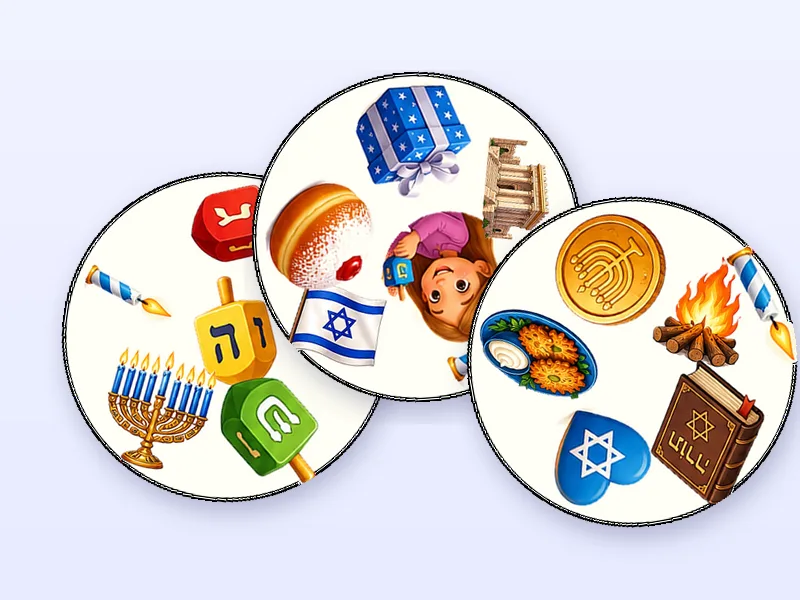
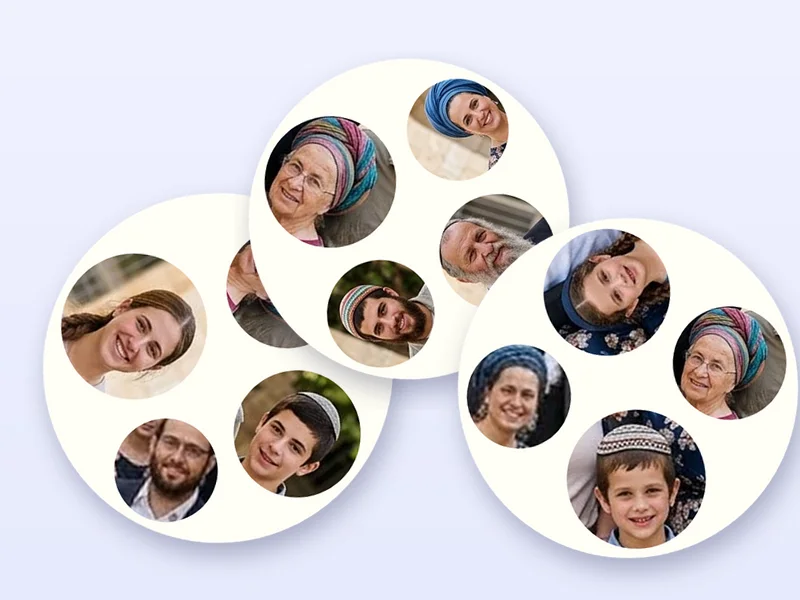
אתר: קלפי מאצ׳טו עם פרצופי משפחה בכל דפי המוצר (W-27)
Claude-Session: https://claude.ai/code/session_01694pSE2a7KruBRUYptHFg2

diff --git a/card-games.html b/card-games.html
@@ -185,7 +185,7 @@
           <a href="#games" class="btn btn-hero-phone">🃏 לבחירת משחק</a>
           <a href="https://wa.me/972505918734?text=%D7%A9%D7%9C%D7%95%D7%9D%20%D7%94%D7%95%D7%A9%D7%A2%D7%99%D7%94%2C%20%D7%94%D7%92%D7%A2%D7%AA%D7%99%20%D7%9E%D7%93%D7%A3%20%D7%9E%D7%97%D7%95%D7%9C%D7%9C%20%D7%9E%D7%A9%D7%97%D7%A7%D7%99%20%D7%94%D7%A7%D7%9C%D7%A4%D7%99%D7%9D%20%D7%95%D7%90%D7%A9%D7%9E%D7%97%20%D7%9C%D7%A9%D7%9E%D7%95%D7%A2%20%D7%A4%D7%A8%D7%98%D7%99%D7%9D%20%F0%9F%83%8F" class="btn btn-ghost-hero" target="_blank" rel="noopener noreferrer">💬 שאלות בוואטסאפ</a>
         </div>
-        <img src="images/games/og-card-games.jpg" alt="משחקי קלפים אישיים מהתמונות שלכם — מצא את הזהה, משחק זיכרון ורביעיות" width="1200" height="630" class="reveal" style="width:100%;max-width:760px;height:auto;border-radius:1rem;margin:1.6rem auto 0;display:block;box-shadow:0 18px 40px rgba(0,0,0,.25)">
+        <img src="images/games/og-card-games.jpg" alt="משחקי קלפים אישיים מהתמונות שלכם — קלפי מצא את הזהה עם פרצופי המשפחה, משחק זיכרון ורביעיות" width="1200" height="630" class="reveal" style="width:100%;max-width:760px;height:auto;border-radius:1rem;margin:1.6rem auto 0;display:block;box-shadow:0 18px 40px rgba(0,0,0,.25)">
       </div>
     </section>
 
@@ -198,7 +198,7 @@
         </header>
         <div class="offer-grid cols-3">
           <div class="offer-card reveal">
-            <img src="images/games/matchito.webp" alt="קלפים עגולים של משחק מצא את הזהה עם תמונות חנוכה — סביבונים, חנוכייה וסופגנייה" width="800" height="600" loading="lazy" style="width:100%;height:auto;border-radius:.8rem;margin-bottom:.6rem">
+            <img src="images/games/matchito.webp" alt="קלפים עגולים של משחק מצא את הזהה עם פרצופים של בני המשפחה — סבא, סבתא, הורים וילדים" width="800" height="600" loading="lazy" style="width:100%;height:auto;border-radius:.8rem;margin-bottom:.6rem">
             <h3 class="offer-card-title">מצא את הזהה (מאצ׳טו)</h3>
             <p>בין כל שני קלפים יש תמונה אחת משותפת — מי מוצא ראשון? 7 עד 91 קלפים מהתמונות שלכם, עם 4 דרכי משחק בחבילה אחת.</p>
             <p style="color:var(--muted);font-size:.82rem;margin-top:.3rem">נקרא גם: משחק "מי מוצא ראשון", קלפי התאמה, משחק סמל משותף, קלפים עגולים עם תמונות</p>

diff --git a/matchito-info.html b/matchito-info.html
@@ -9,6 +9,9 @@
   <meta property="og:description" content="הופכים תמונות ורגעים אישיים למשחק קלפים מקצועי תוך דקות — לכל אירוע, קבוצה או כיתה. חבילה אחת, 4 משחקים שונים.">
   <meta property="og:type" content="website">
   <meta property="og:url" content="https://www.hoshaya.co.il/matchito-info.html">
+  <meta property="og:image" content="https://www.hoshaya.co.il/images/games/og-matchito.jpg">
+  <meta property="og:image:width" content="1200">
+  <meta property="og:image:height" content="630">
   <link rel="canonical" href="https://www.hoshaya.co.il/matchito-info.html">
   <link rel="alternate" hreflang="he" href="https://www.hoshaya.co.il/matchito-info.html">
   <link rel="alternate" hreflang="en" href="https://www.hoshaya.co.il/one-match.html">
@@ -89,6 +92,7 @@
             שאלות בוואטסאפ
           </a>
         </div>
+        <img src="images/games/og-matchito.jpg" alt="קלפי מאצ׳טו עגולים עם תמונות של בני המשפחה — סבא, סבתא, הורים וילדים. בין כל שני קלפים יש פרצוף אחד משותף" width="1200" height="630" class="reveal" style="width:100%;max-width:760px;height:auto;border-radius:1rem;margin:1.6rem auto 0;display:block;box-shadow:0 18px 40px rgba(0,0,0,.25)">
       </div>
     </section>
 

diff --git a/one-match.html b/one-match.html
@@ -9,6 +9,9 @@
   <meta property="og:description" content="Turn personal photos and memories into a professional card game in minutes — for any event, group or classroom. One pack, 4 different games.">
   <meta property="og:type" content="website">
   <meta property="og:url" content="https://www.hoshaya.co.il/one-match.html">
+  <meta property="og:image" content="https://www.hoshaya.co.il/images/games/og-matchito.jpg">
+  <meta property="og:image:width" content="1200">
+  <meta property="og:image:height" content="630">
   <link rel="canonical" href="https://www.hoshaya.co.il/one-match.html">
   <link rel="alternate" hreflang="he" href="https://www.hoshaya.co.il/matchito-info.html">
   <link rel="alternate" hreflang="en" href="https://www.hoshaya.co.il/one-match.html">
@@ -89,6 +92,7 @@
             WhatsApp questions
           </a>
         </div>
+        <img src="images/games/og-matchito.jpg" alt="Round One Match cards with family photos — grandparents, parents and kids. Every two cards share exactly one face" width="1200" height="630" class="reveal" style="width:100%;max-width:760px;height:auto;border-radius:1rem;margin:1.6rem auto 0;display:block;box-shadow:0 18px 40px rgba(0,0,0,.25)">
       </div>
     </section>
 

diff --git a/index.html b/index.html
@@ -188,6 +188,7 @@
     <!-- ===== מחולל הדאבל ===== -->
     <section class="section" id="dobble-entry" aria-label="מחולל מאצ׳טו">
       <div class="container">
+        <a href="matchito-info.html"><img src="images/games/matchito.webp" alt="קלפי מאצ׳טו עגולים עם תמונות של בני המשפחה — בין כל שני קלפים יש פרצוף אחד משותף" width="800" height="600" loading="lazy" class="reveal" style="width:100%;max-width:520px;height:auto;border-radius:1rem;margin:0 auto 1rem;display:block"></a>
         <a href="dobble.html" class="subpage-link-card reveal">
           <div>
             <strong>🎯 מחולל מאצ׳טו שלנו</strong>

diff --git a/מרשם-אתר.md b/מרשם-אתר.md
@@ -27,6 +27,8 @@
 
 | W-26 | **תמונות לדף `card-games.html`** (בקשת הושעיה). 7 תמונות אמיתיות מהמחוללים עצמם (מאצ׳טו, זיכרון, רביעיות, דומינו, קלפים, פאזל, קובייה) עם סמלי חנוכה מחבילת ההדגמה `play/demo/hanukkah.matchito.zip`, ותמונה ראשית 1200×630 שמשמשת גם לשיתוף בוואטסאפ (og:image). alt עם מילות חיפוש, loading=lazy, webp 18–58KB. תיקייה `images/games/`. | card-games.html, images/games/ | מוזג |
 
+| W-27 | **קלפי מאצ׳טו עם פרצופים** (בקשת הושעיה — שיהיה ברור שזה המוצר). 13 פרצופים נחתכו מתמונת משפחה שהושעיה הפיק בבינה מלאכותית (אין אנשים אמיתיים), הקלפים הופקו במחולל עצמו (סדר 13). `images/games/og-matchito.jpg` (1200×630) בראש `matchito-info.html` ו-`one-match.html` + og:image שלהם; `matchito.webp` הוחלף (דף משחקי הקלפים + חדש בדף הבית מעל כרטיס המחולל); `og-card-games.jpg` עודכן. | matchito-info.html, one-match.html, card-games.html, index.html, images/games/ | מוזג |
+
 ## 🟡 באגים מלקוחות — מאומתים, ממתינים למפרט
 
 | # | תיאור | מקור | חומרה |
